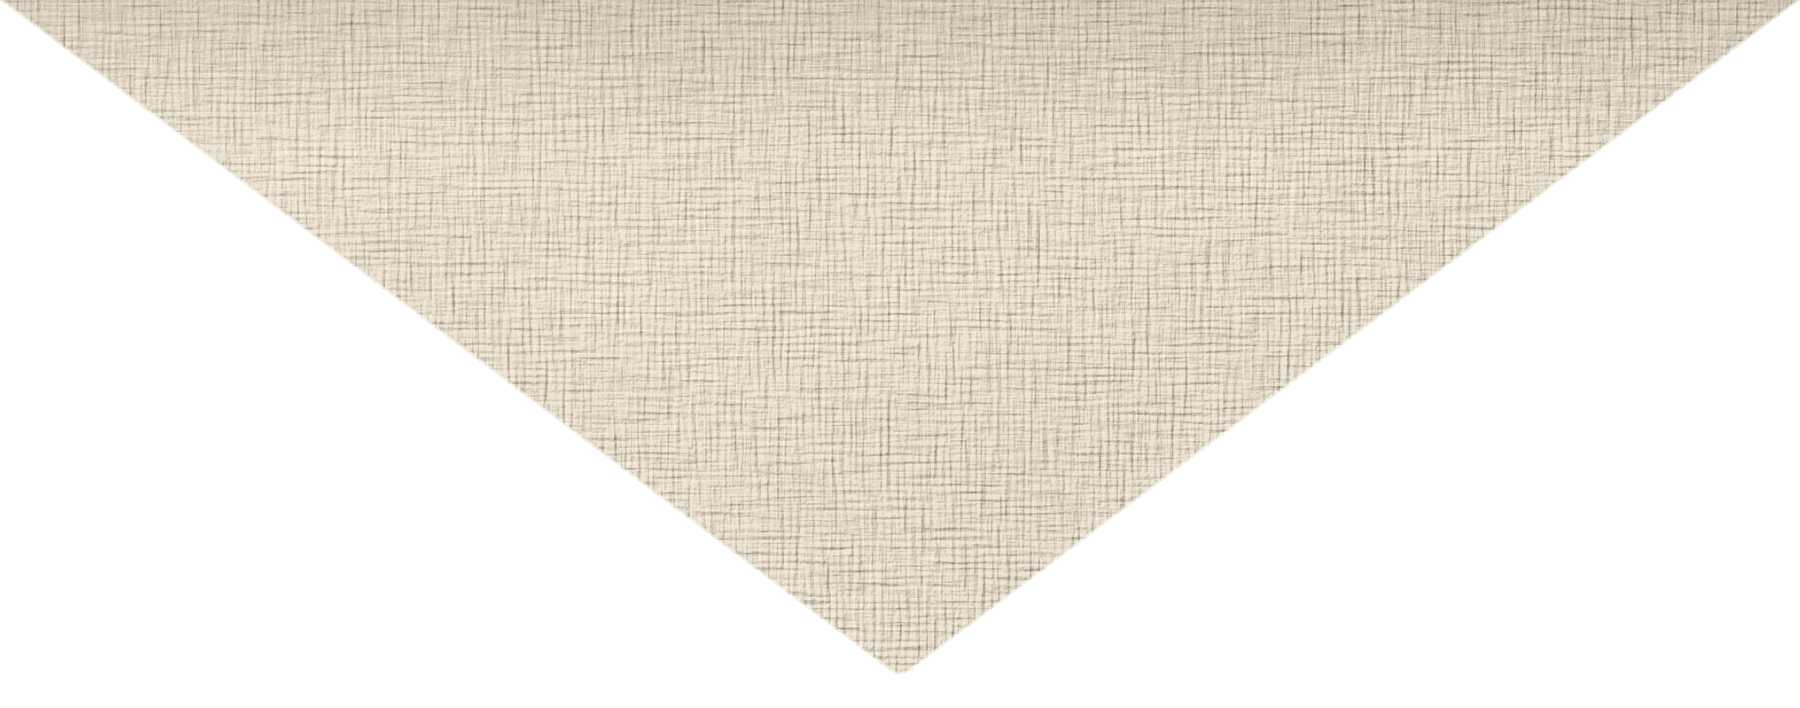
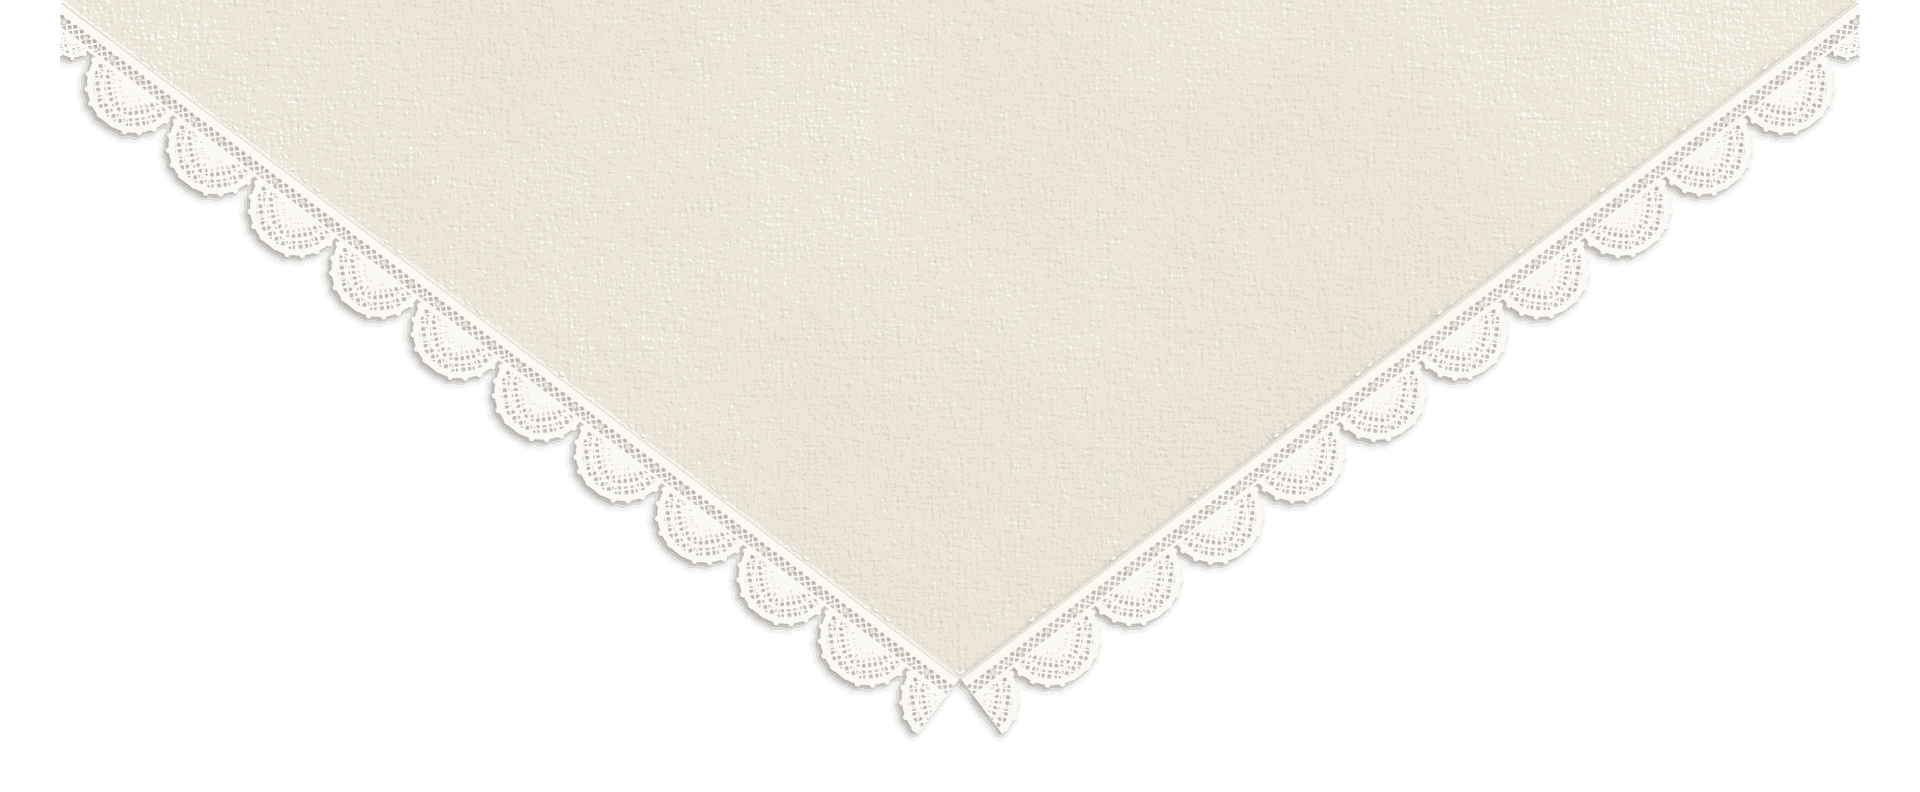
feat: 진입 장면 봉투를 레이스 봉투로 대체 (WIW-4)
public/intro/ PNG 6장(펠트 종이 · 가장자리 레이스 · 장미 봉인, 256색), wax-seal 2장 삭제. 뚜껑·그림자 상자 640×264, 봉인 상자 84×84, 봉인 경로. 디자인 논의 T77~T82.

Claude-Session: https://claude.ai/code/session_01R1Zoy2TveH4pdvyLwuKBpD

Changed region(s): [[0.0, 0.0, 1.0, 0.9633]]

diff --git a/src/app/globals.css b/src/app/globals.css
@@ -223,18 +223,19 @@ body {
 /* 그림자. 광원은 봉투 기준 우측 상단 45°, 높이 45°(T76). 봉투가 탁자에 드리우는 그림자는 바닥(.intro__floor) 위에 그려져야 봉투 아랫변 아래에도 보이므로 앞판 층의 상자(.intro__table)로 두고, 앞판 자체는 카드에 닿는 얇은 그림자만 둡니다 */
 .intro__table { position: absolute; left: 0; top: 0; width: 600px; height: 400px; border-radius: 3px; box-shadow: -13px 13px 20px rgba(70, 48, 24, 0.26), -2px 2px 4px rgba(70, 48, 24, 0.18); }
 .intro__front { filter: drop-shadow(-1.5px 1.5px 2px rgba(70, 48, 24, 0.26)); }
-.intro__flap { position: absolute; left: 0; top: 0; width: 600px; height: 236px; transform-origin: 50% 0; filter: drop-shadow(0 0 2.4px rgba(74, 54, 32, 0.22)); }
+.intro__flap { position: absolute; left: -20px; top: 0; width: 640px; height: 264px; transform-origin: 50% 0; filter: drop-shadow(0 0 2.4px rgba(74, 54, 32, 0.22)); }
 /* 뚜껑 그림자. 뚜껑과 봉인의 어두운 실루엣(.intro__cast)이 뚜껑과 같은 회전(rotateX)을 하고, 같은 transform 목록 앞의 matrix3d가 그 3D 결과를 광원 방향으로 봉투 면(z=0)에 투영합니다(z를 x로 -0.7071, y로 +0.7071 옮기고 z는 0.001로 눌러 평평하게). 뚜껑이 세워질수록 그림자가 왼쪽 아래로 길어지고, 125°에서 선으로 접힌 뒤 윗변 위로 넘어갑니다. 회전 애니메이션이 같은 곡선·시각이라 어긋나지 않습니다.
    투영과 회전은 한 요소의 transform 목록에 함께 둡니다. 바깥 요소(preserve-3d)에 투영을 두고 안쪽에서 회전하면 WebKit이 투영을 무시합니다(T76 실험. Chromium은 됩니다).
    실루엣은 선명한 것과 흐린 것 두 벌을 겹쳐 뚜껑이 높이 설수록 흐린 쪽이 보이게 합니다(불투명도만 움직여 합성기에서 처리). 뚜껑은 종이 두께만큼(4px) 떠 있어 닫혀 있을 때도 왼쪽 아래로 얇은 그림자가 납니다 */
-.intro__cast { position: absolute; left: 0; top: 0; width: 600px; height: 236px; transform-origin: 50% 0; transform: matrix3d(1, 0, 0, 0, 0, 1, 0, 0, -0.7071, 0.7071, 0.001, 0, 0, 0, 0, 1) translateZ(4px) rotateX(0deg); }
-.intro__cast-img { position: absolute; left: 0; top: 0; width: 600px; height: 236px; filter: brightness(0) invert(0.25) sepia(1) blur(2.5px); opacity: 0.3; }
-.intro__cast-img--seal { left: 230px; top: 135px; width: 140px; height: 140px; }
+.intro__cast { position: absolute; left: -20px; top: 0; width: 640px; height: 264px; transform-origin: 50% 0; transform: matrix3d(1, 0, 0, 0, 0, 1, 0, 0, -0.7071, 0.7071, 0.001, 0, 0, 0, 0, 1) translateZ(4px) rotateX(0deg); }
+.intro__cast-img { position: absolute; left: 0; top: 0; width: 640px; height: 264px; filter: brightness(0) invert(0.25) sepia(1) blur(2.5px); opacity: 0.3; }
+.intro__cast-img--seal { left: 278px; top: 184px; width: 84px; height: 84px; }
 .intro__cast-img--soft { filter: brightness(0) invert(0.25) sepia(1) blur(10px); opacity: 0; }
-.intro__flap-out, .intro__flap-in { position: absolute; left: 0; top: 0; width: 600px; height: 236px; }
+.intro__flap-out, .intro__flap-in { position: absolute; left: 0; top: 0; width: 640px; height: 264px; }
 .intro__flap-in { opacity: 0; }
-/* 봉인은 뚜껑의 자식이라 함께 젖혀집니다. 앞면은 바깥면 위에, 뒷면(어두운 밀랍)은 안쪽면 아래에 같은 자리로 두고 옆면에서 바꿉니다. 봉인이 뚜껑 끝보다 커서 젖혀진 뒤에는 뚜껑 끝 둘레로 뒷면이 보입니다 */
-.intro__seal, .intro__seal-back { position: absolute; left: 230px; top: 135px; width: 140px; height: 140px; }
+/* 봉인(장미)은 뚜껑의 자식이라 함께 젖혀집니다. 앞면은 바깥면 위에, 뒷면(납작한 밑면)은 안쪽면 아래에 같은 자리로 두고 옆면에서 바꿉니다. 가운데가 뚜껑 끝이라 젖혀진 뒤에는 뚜껑 끝 아래로 뒷면 반이 보입니다.
+   뚜껑 상자는 640×264(레이스가 가장자리 밖으로 드리워 좌우 20px씩 넓힘)라 left -20px이고, 봉인 상자는 그 안에서 (278,184) 84×84입니다(T82) */
+.intro__seal, .intro__seal-back { position: absolute; left: 278px; top: 184px; width: 84px; height: 84px; }
 .intro__seal-back { opacity: 0; }
 .intro__skip {
   position: fixed; z-index: 40; right: max(24px, calc((100vw - 430px) / 2 + 24px), env(safe-area-inset-right)); bottom: calc(26px + env(safe-area-inset-bottom));

diff --git a/src/app/page.tsx b/src/app/page.tsx
@@ -163,9 +163,9 @@ export default function Home() {
               <div className="intro__env">
                 <div className="intro__cast">
                   <img className="intro__cast-img" src="/intro/envelope-flap.png" alt="" />
-                  <img className="intro__cast-img intro__cast-img--seal" src="/intro/wax-seal.png" alt="" />
+                  <img className="intro__cast-img intro__cast-img--seal" src="/intro/rose-seal.png" alt="" />
                   <img className="intro__cast-img intro__cast-img--soft" src="/intro/envelope-flap.png" alt="" />
-                  <img className="intro__cast-img intro__cast-img--seal intro__cast-img--soft" src="/intro/wax-seal.png" alt="" />
+                  <img className="intro__cast-img intro__cast-img--seal intro__cast-img--soft" src="/intro/rose-seal.png" alt="" />
                 </div>
               </div>
             </div>
@@ -174,10 +174,10 @@ export default function Home() {
             <div className="intro__zoom">
               <div className="intro__env">
                 <div className="intro__flap">
-                  <img className="intro__seal-back" src="/intro/wax-seal-back.png" alt="" />
+                  <img className="intro__seal-back" src="/intro/rose-seal-back.png" alt="" />
                   <img className="intro__flap-in" src="/intro/envelope-flap-inside.png" alt="" />
                   <img className="intro__flap-out" src="/intro/envelope-flap.png" alt="" />
-                  <img className="intro__seal" src="/intro/wax-seal.png" alt="" />
+                  <img className="intro__seal" src="/intro/rose-seal.png" alt="" />
                 </div>
               </div>
             </div>
